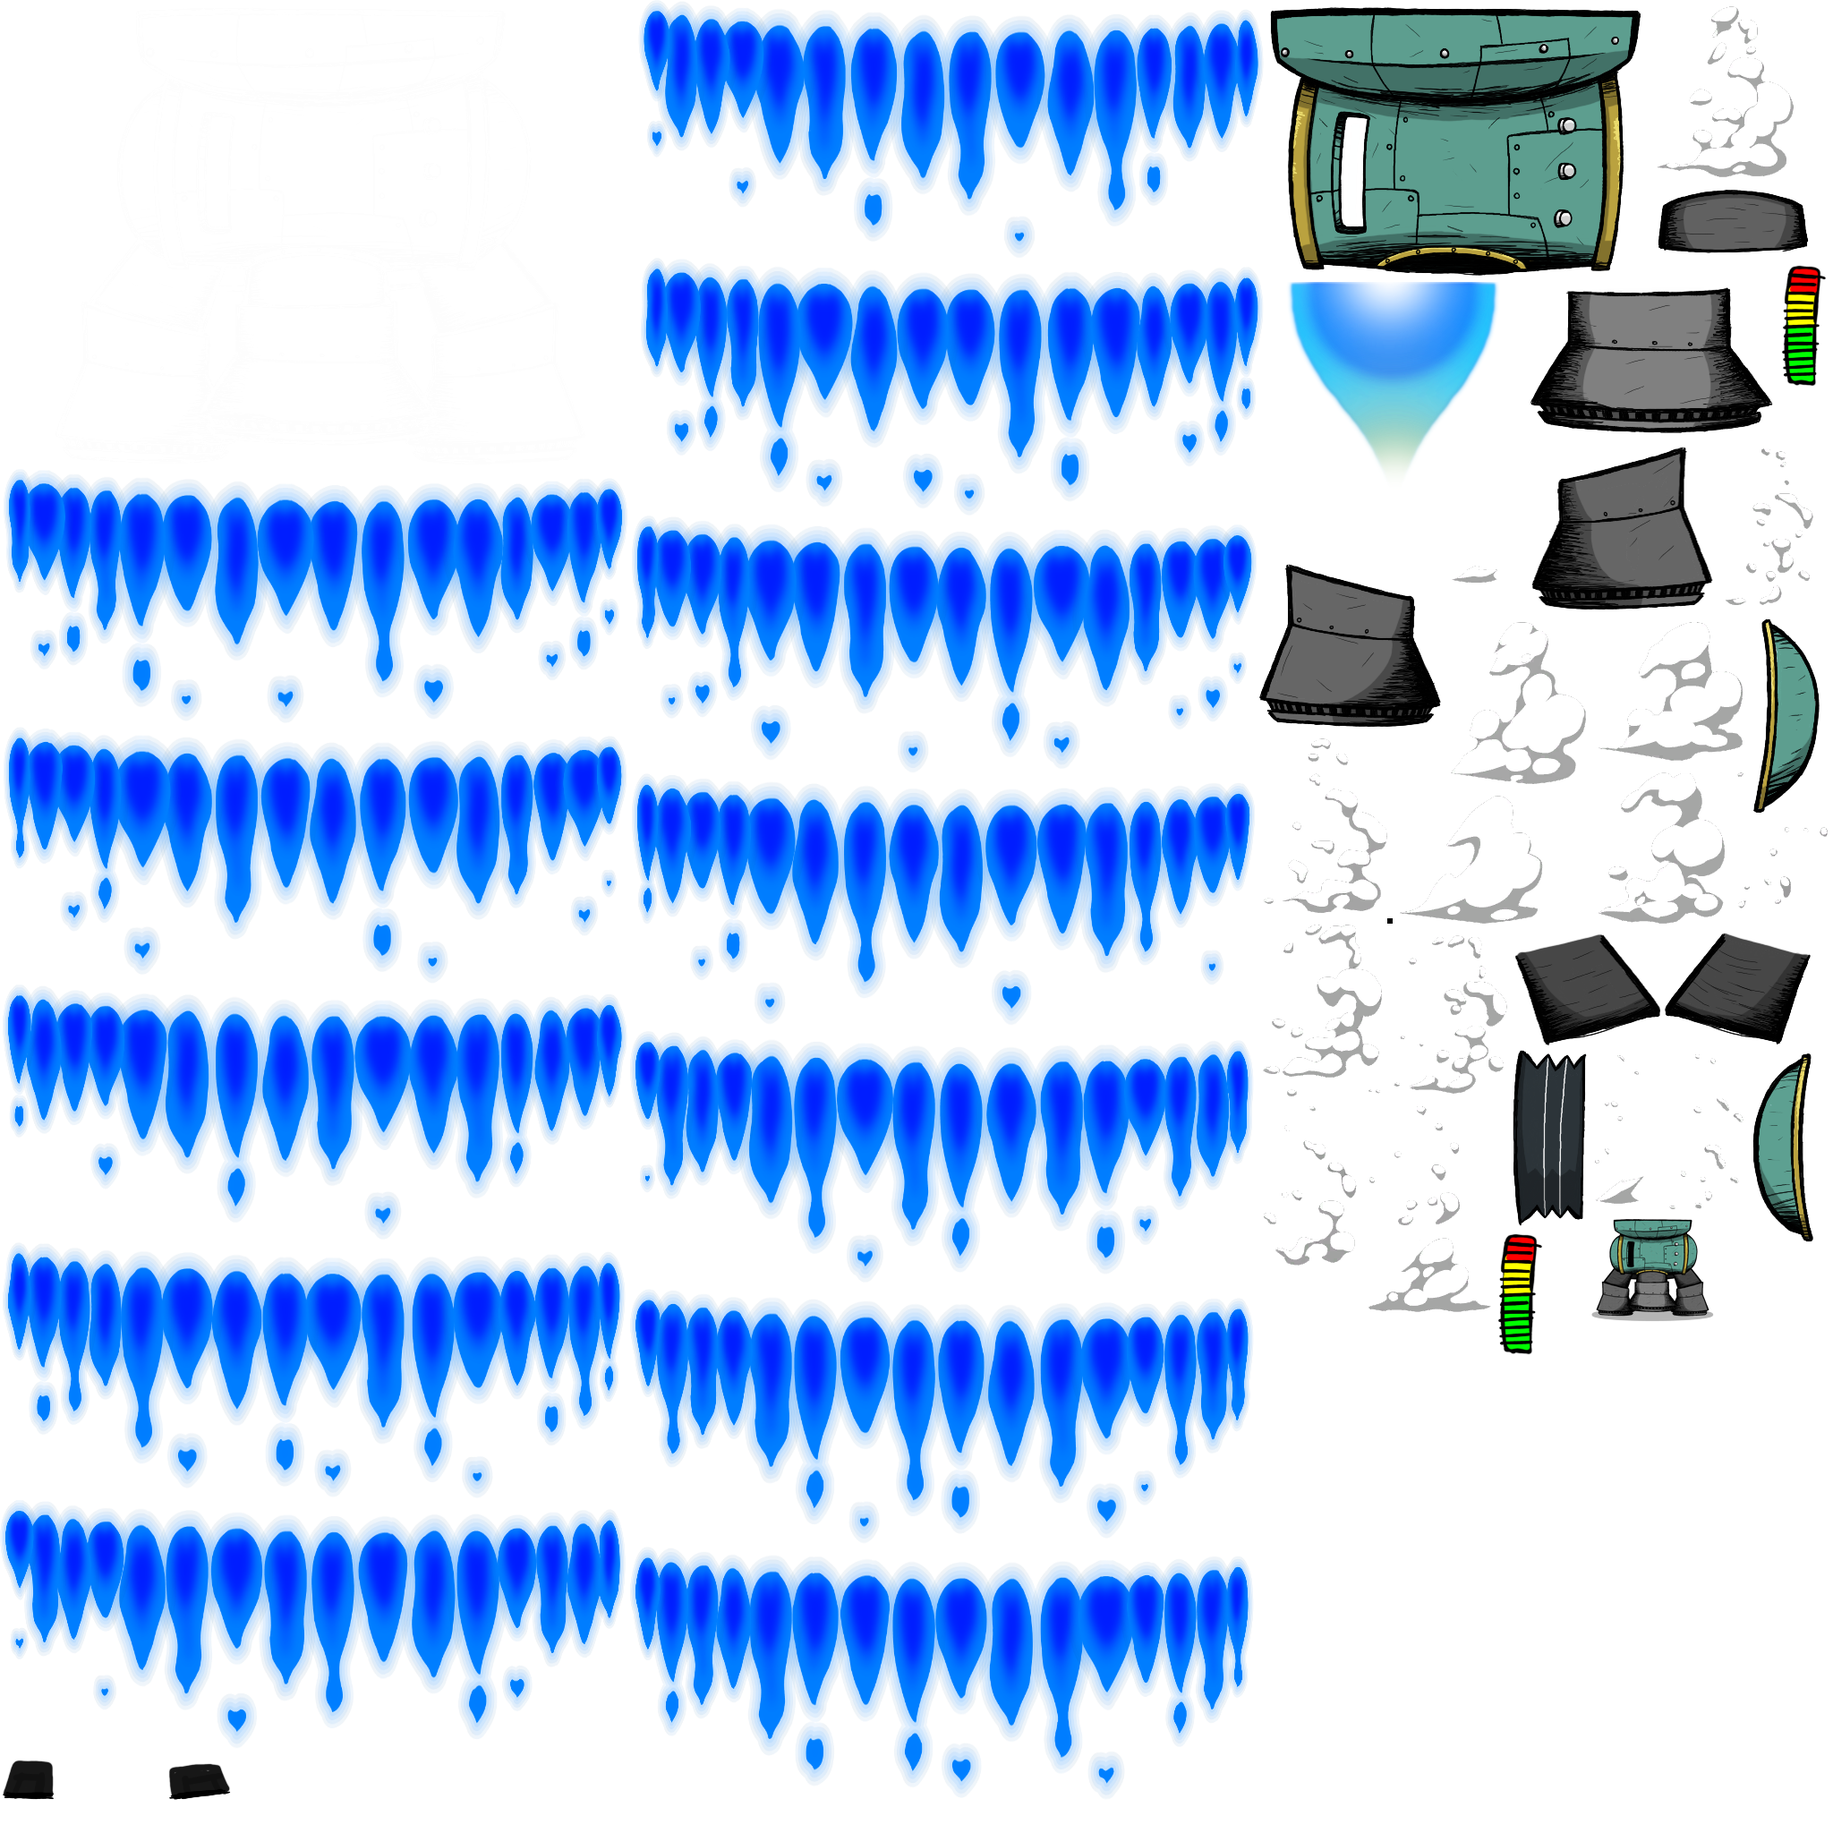
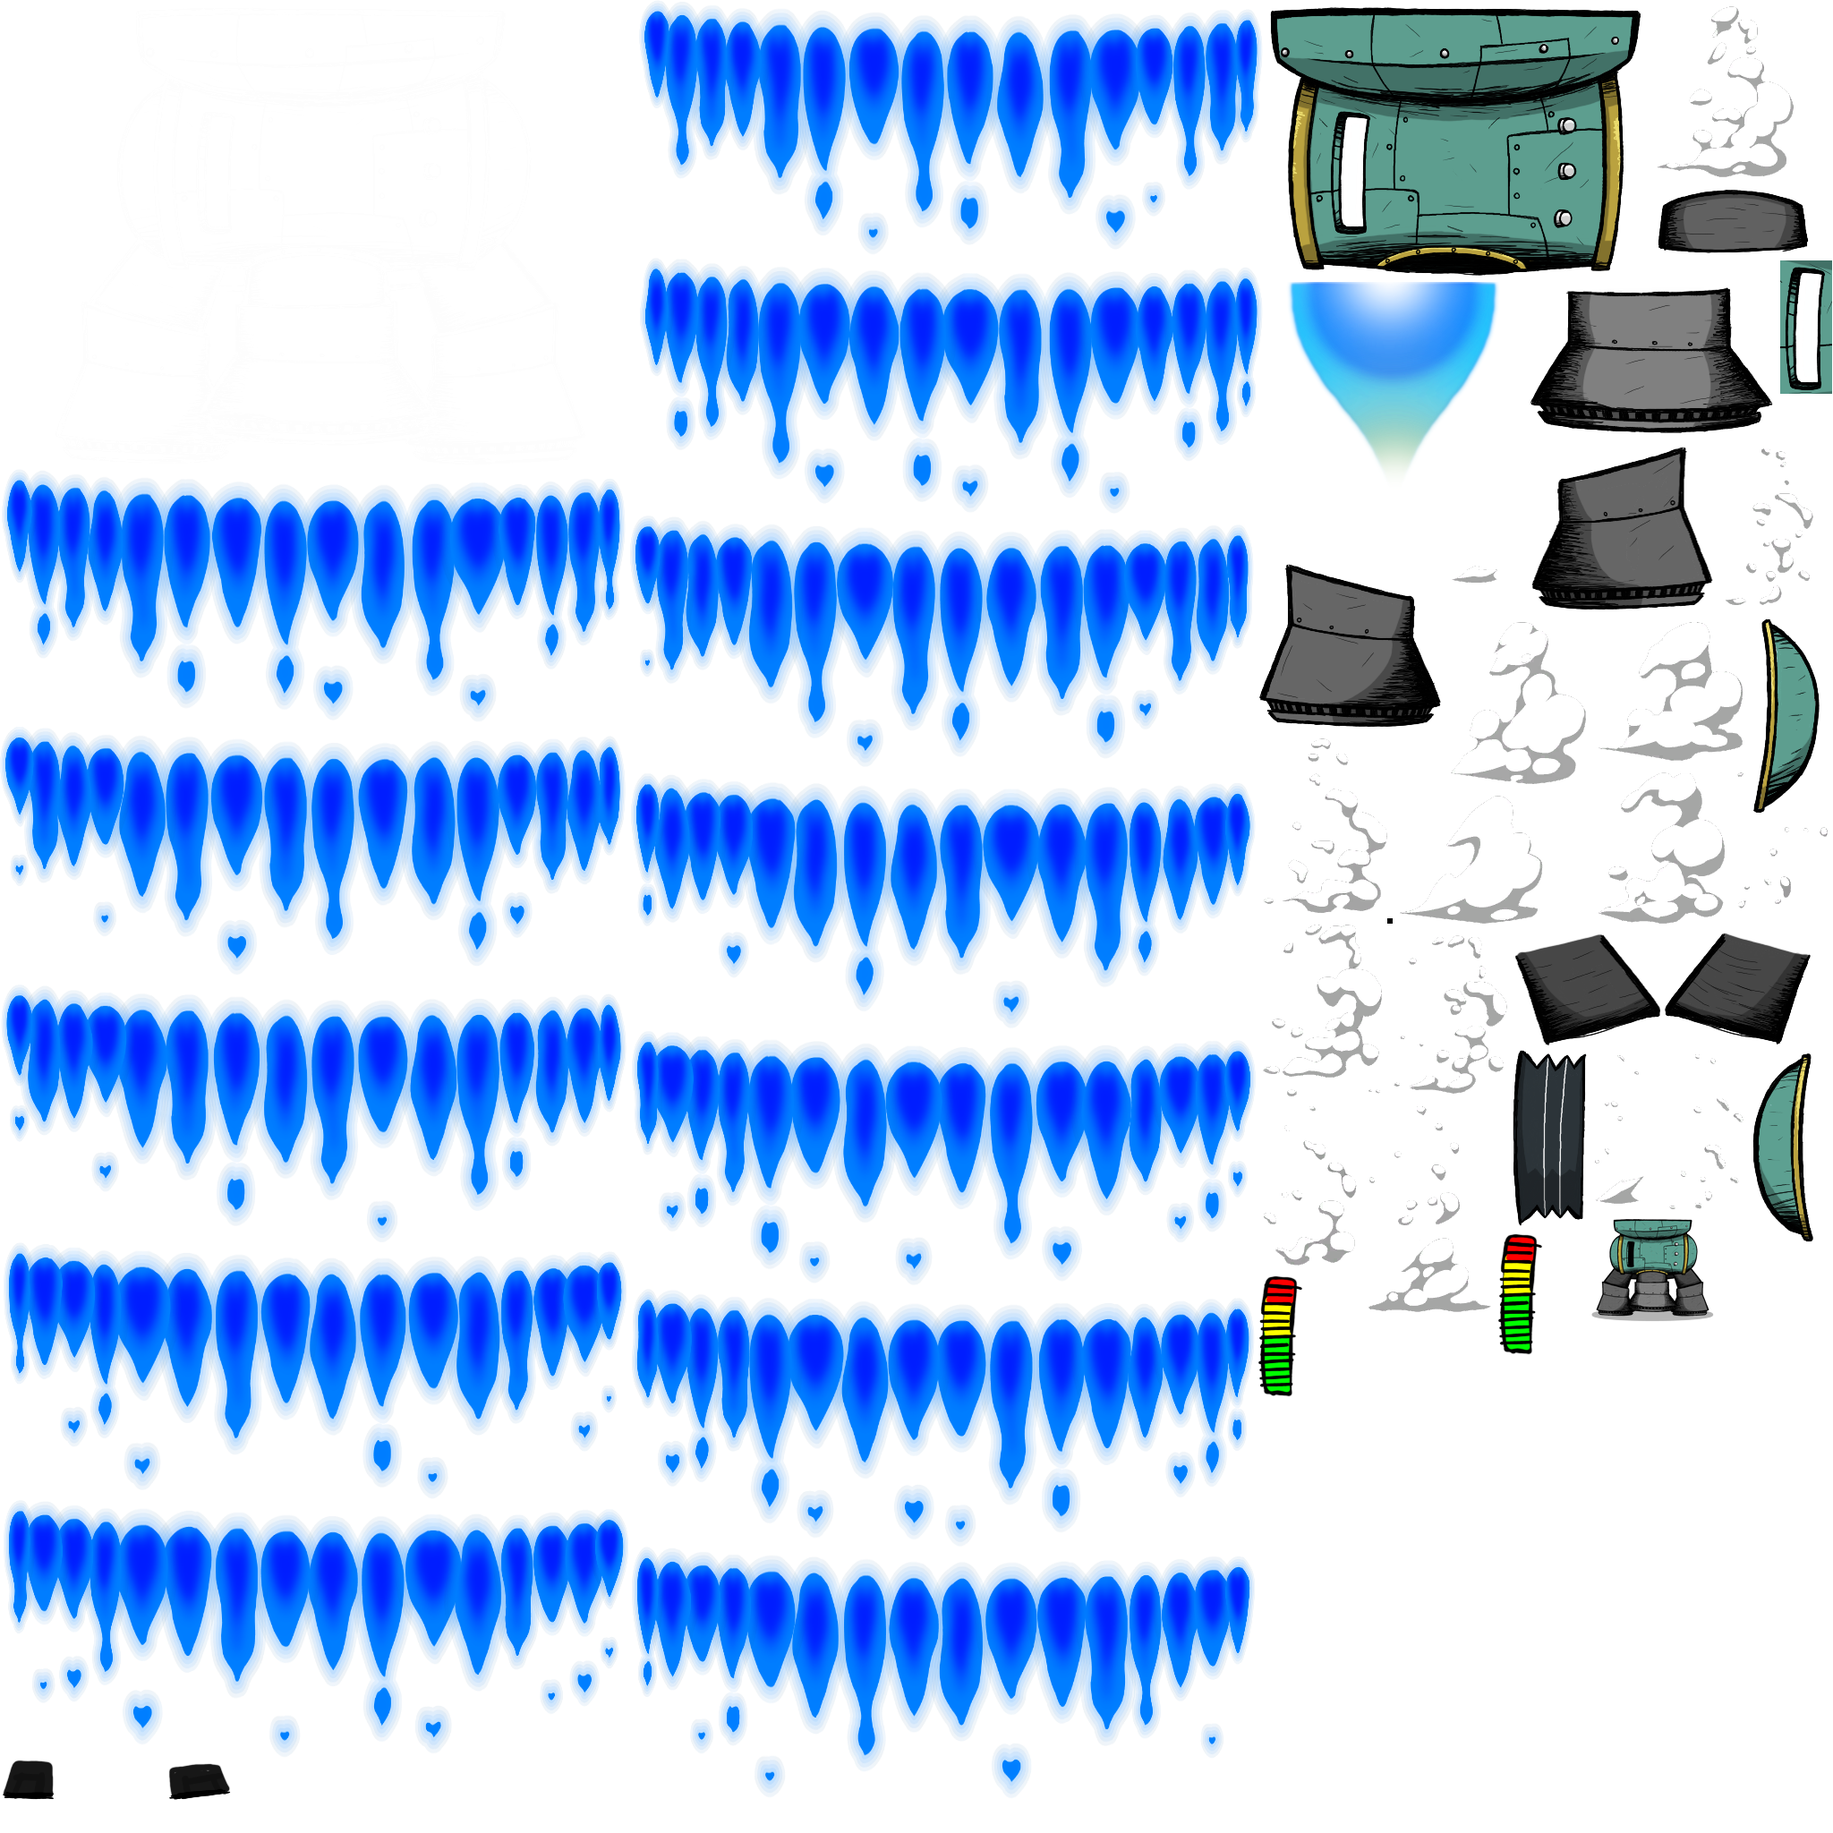
sidescreen stuff

Changed region(s): [[0.0, 0.0, 0.7188, 1.0], [0.9688, 0.125, 1.0, 0.2188], [0.3125, 0.5312, 0.3438, 0.5625]]

diff --git a/Rockets-TinyYetBig/SpaceStations/SpaceStationBuilderModuleSideScreen.cs b/Rockets-TinyYetBig/SpaceStations/SpaceStationBuilderModuleSideScreen.cs
@@ -1,0 +1,120 @@
+using System;
+using System.Collections.Generic;
+using System.Linq;
+using System.Text;
+using System.Threading.Tasks;
+using static STRINGS.CREATURES.STATS;
+using UnityEngine;
+using UtilLibs;
+
+namespace Rockets_TinyYetBig.SpaceStations
+{
+    internal class SpaceStationBuilderModuleSideScreen : SideScreenContent
+    {
+        [SerializeField]
+        private RectTransform buttonContainer;
+
+        private GameObject stateButtonPrefab;
+        private GameObject debugVictoryButton;
+        private GameObject flipButton;
+        private readonly List<GameObject> buttons = new List<GameObject>();
+
+        private Clustercraft targetCraft;
+
+        public override bool IsValidForTarget(GameObject target) => target.GetComponent<Clustercraft>() != null && this.HasConstructor(target.GetComponent<Clustercraft>());
+        private bool HasConstructor(Clustercraft craft)
+        {
+            foreach (Ref<RocketModuleCluster> clusterModule in craft.GetComponent<CraftModuleInterface>().ClusterModules)
+            {
+                if (clusterModule.Get().GetComponent<SpaceStationBuilder>() != null)
+                    return true;
+            }
+            return false;
+        }
+        protected override void OnSpawn()
+        {
+            base.OnSpawn();
+
+            // the monument screen used here has 2 extra buttons that are not needed, disabling them
+            //flipButton.SetActive(false);
+            //debugVictoryButton.SetActive(false);
+        }
+
+        protected override void OnPrefabInit()
+        {
+            base.OnPrefabInit();
+            titleKey = "STRINGS.UI_MOD.UISIDESCREENS.SPACESTATIONBUILDERSIDESCREEN.TITLE";
+            stateButtonPrefab = transform.Find("ButtonPrefab").gameObject;
+            buttonContainer = transform.Find("Content/Scroll/Grid").GetComponent<RectTransform>();
+            debugVictoryButton = transform.Find("Butttons/Button").gameObject;
+            flipButton = transform.Find("Butttons/FlipButton").gameObject;
+        }
+
+        private List<int> refreshHandle = new List<int>();
+        public override void SetTarget(GameObject target)
+        {
+            if (target != null)
+            {
+                foreach (int id in this.refreshHandle)
+                    target.Unsubscribe(id);
+                refreshHandle.Clear();
+            }
+            base.SetTarget(target);
+
+            targetCraft = target.GetComponent<Clustercraft>();
+            //GetPrefabStrings();
+            //refreshHandle.Add(this.targetCraft.gameObject.Subscribe(1792516731, new System.Action<object>(this.RefreshAll)));
+            //BuildModules();
+        }
+
+
+
+        // Creates clickable card buttons for all the lamp types + a randomizer button
+            
+        private void GenerateStateButtons()
+        {
+            //ClearButtons();
+            //var animFile = SpaceStationInConstruction.GetComponent<KBatchedAnimController>().AnimFiles[0];
+
+            //// random button
+            //AddButton(animFile, "random_ui", STRINGS.BUILDINGS.PREFABS.DECORPACKA_MOODLAMP.VARIANT.RANDOM, () => target.SetRandom());
+
+            //foreach (var lamp in ModDb.lampVariants.resources)
+            //{
+            //    AddButton(animFile, lamp.Id + "_ui", lamp.Name, 
+            //        () =>
+            //        Debug.Log("Bt pressed")
+            //        //target.SetVariant(lamp.Id)
+            //        );
+            //}
+        }
+
+
+        private void AddButton(KAnimFile animFile, string animName, LocString tooltip, System.Action onClick)
+        {
+            var gameObject = Util.KInstantiateUI(stateButtonPrefab, buttonContainer.gameObject, true);
+
+            if (gameObject.TryGetComponent(out KButton button))
+            {
+                button.onClick += onClick;
+                button.fgImage.sprite = Def.GetUISpriteFromMultiObjectAnim(animFile, animName);
+            }
+
+            UIUtils.AddSimpleTooltipToObject(gameObject.transform, tooltip, true);
+            buttons.Add(gameObject);
+        }
+
+        private void ClearButtons()
+        {
+            foreach (var button in buttons)
+            {
+                Util.KDestroyGameObject(button);
+            }
+
+            buttons.Clear();
+
+            //flipButton.SetActive(false);
+            //debugVictoryButton.SetActive(false);
+        }
+    }
+}

diff --git a/Rockets-TinyYetBig/SpaceStations/SpaceStationBuilder.cs b/Rockets-TinyYetBig/SpaceStations/SpaceStationBuilder.cs
@@ -7,7 +7,7 @@ using UnityEngine;
 
 namespace Rockets_TinyYetBig.SpaceStations
 {
-    class SpaceStationConstructor : KMonoBehaviour, ISidescreenButtonControl
+    class SpaceStationBuilder : KMonoBehaviour, ISidescreenButtonControl
     {
         public string SidescreenButtonText => "Make Station";
 
@@ -17,9 +17,9 @@ namespace Rockets_TinyYetBig.SpaceStations
         {
             Vector3 position = new Vector3(-1f, -1f, 0.0f);
             GameObject sat = Util.KInstantiate(Assets.GetPrefab((Tag)prefab), position);
-            var spaceStation = sat.GetComponent<SpaceStation>();
-            sat.GetComponent<SpaceStation>().Location = location;
             sat.SetActive(true);
+            var spaceStation = sat.GetComponent<SpaceStation>();
+            spaceStation.Location = location;
         }
 
         public int ButtonSideScreenSortOrder()
@@ -31,9 +31,21 @@ namespace Rockets_TinyYetBig.SpaceStations
         {
 
             Clustercraft component = this.GetComponent<RocketModuleCluster>().CraftInterface.GetComponent<Clustercraft>();
-            var location = component.Location;
-            location.q += 2;
-            SpawnStation(location, SmallOrbitalSpaceStationConfig.ID);
+            var locationToCheck = component.Location;
+            //location.q += 2;
+
+            int worldId = SpaceStationManager.GetSpaceStationWorldIdAtLocation(locationToCheck);
+            if (worldId!=-1)
+            {
+                ///other transfering items ?...
+                SpaceStationManager.Instance.DestroySpaceStationInteriorWorld(worldId);
+            }
+            else
+            {
+                ///Add Ressource Check
+                SpawnStation(locationToCheck, SmallOrbitalSpaceStationConfig.ID);
+            }
+
         }
 
         public bool SidescreenButtonInteractable()

diff --git a/Rockets-TinyYetBig/SpaceStations/AllowBuildingsInsideSpaceStationsPatches.cs b/Rockets-TinyYetBig/SpaceStations/AllowBuildingsInsideSpaceStationsPatches.cs
@@ -1,0 +1,45 @@
+using HarmonyLib;
+using System;
+using System.Collections.Generic;
+using System.Linq;
+using System.Text;
+using System.Threading.Tasks;
+using UnityEngine;
+using static STRINGS.BUILDINGS.PREFABS;
+
+namespace Rockets_TinyYetBig.SpaceStations
+{
+    internal class AllowBuildingsInsideSpaceStationsPatches
+    {
+        [HarmonyPatch(typeof(BaseModularLaunchpadPortConfig), "ConfigureBuildingTemplate")]
+        public static class AllowPortLoadersInSpaceStation
+        {
+            public static void Postfix(GameObject go)
+            {
+                KPrefabID component = go.GetComponent<KPrefabID>();
+                component.AddTag(ModAssets.Tags.SpaceStationOnlyInteriorBuilding);
+            }
+        }
+
+        [HarmonyPatch(typeof(ExobaseHeadquartersConfig), "ConfigureBuildingTemplate")]
+        public static class AllowSmallPrintingPodInSpaceStation
+        {
+            public static void Postfix(GameObject go)
+            {
+                KPrefabID component = go.GetComponent<KPrefabID>();
+                component.AddTag(ModAssets.Tags.SpaceStationOnlyInteriorBuilding);
+            }
+        }
+
+
+        [HarmonyPatch(typeof(ClusterUtil), "ActiveWorldHasPrinter")]
+        public static class CLusterUtil_AllowTelepads
+        {
+            public static bool Prefix(ref bool __result)
+            {
+                __result = SpaceStationManager.ActiveWorldIsRocketInterior() || Components.Telepads.GetWorldItems(ClusterManager.Instance.activeWorldId).Count > 0;
+                return false;
+            }
+        }
+    }
+}

diff --git a/Rockets-TinyYetBig/SpaceStations/SpaceStationPatches.cs b/Rockets-TinyYetBig/SpaceStations/SpaceStationPatches.cs
@@ -8,6 +8,7 @@ using System.Text;
 using System.Threading.Tasks;
 using TemplateClasses;
 using UnityEngine;
+using UtilLibs;
 
 namespace Rockets_TinyYetBig.SpaceStations
 {
@@ -42,18 +43,22 @@ namespace Rockets_TinyYetBig.SpaceStations
             }
         }
 
-
-        [HarmonyPatch(typeof(BaseModularLaunchpadPortConfig), "ConfigureBuildingTemplate")]
-        public static class AllowPortLoadersInSpaceStation
+        /// <summary>
+        /// Adding custom sidescreen
+        /// </summary>
+        [HarmonyPatch(typeof(DetailsScreen), "OnPrefabInit")]
+        public static class CustomSideScreenPatch_SatelliteCarrier
         {
-            public static void Postfix(GameObject go)
+            public static void Postfix(List<DetailsScreen.SideScreenRef> ___sideScreens)
             {
-                KPrefabID component = go.GetComponent<KPrefabID>();
-                component.AddTag(ModAssets.Tags.SpaceStationOnlyInteriorBuilding);
+                UIUtils.AddClonedSideScreen<SpaceStationBuilderModuleSideScreen>("SpaceStationBuilderModuleSideScreen", "MonumentSideScreen", typeof(MonumentSideScreen));
             }
         }
 
 
+        /// <summary>
+        /// Removing that method from space station interiors (to prevent crash)
+        /// </summary>
         [HarmonyPatch(typeof(ClusterManager), "UpdateWorldReverbSnapshot")]
         public static class DisableAudioReverbGetter
         {

diff --git a/Rockets-TinyYetBig/SpaceStations/SpaceStationManager.cs b/Rockets-TinyYetBig/SpaceStations/SpaceStationManager.cs
@@ -123,6 +123,21 @@ namespace Rockets_TinyYetBig.SpaceStations
             UnityEngine.Object.Destroy((UnityEngine.Object)world);
         }
 
+
+        public static bool IsSpaceStationAt(AxialI location) => GetSpaceStationWorldIdAtLocation(location) != -1;
+
+        public static bool ValidSpaceStationConstructionLocation(AxialI location)
+        {
+            foreach (ClusterGridEntity clusterGridEntity in ClusterGrid.Instance.cellContents[location])
+            {
+                if (clusterGridEntity.Layer == EntityLayer.Asteroid || clusterGridEntity.Layer == EntityLayer.POI && !(clusterGridEntity is ResearchDestination))
+                {
+                    return false;
+                }
+            }
+            return true;
+        }
+
         public static int GetSpaceStationWorldIdAtLocation(AxialI location)
         {
             foreach (ClusterGridEntity clusterGridEntity in ClusterGrid.Instance.cellContents[location])

diff --git a/Rockets-TinyYetBig/SpaceStations/ExcludePortsFromSpaceStationPatches.cs b/Rockets-TinyYetBig/SpaceStations/ExcludePortsFromSpaceStationPatches.cs
@@ -10,6 +10,16 @@ namespace Rockets_TinyYetBig.SpaceStations
 {
     internal class ExcludePortsFromSpaceStationPatches
     {
+        [HarmonyPatch(typeof(RocketControlStationConfig), "ConfigureBuildingTemplate")]
+        public static class RmRocketControlStationFromSpaceStation
+        {
+            public static void Postfix(GameObject go)
+            {
+                KPrefabID component = go.GetComponent<KPrefabID>();
+                component.AddTag(ModAssets.Tags.RocketInteriorOnlyBuilding);
+            }
+        }
+
         [HarmonyPatch(typeof(RocketInteriorGasInputConfig), "ConfigureBuildingTemplate")]
         public static class RmGasInputFromSpaceStation
         {

diff --git a/Rockets-TinyYetBig/STRINGS.cs b/Rockets-TinyYetBig/STRINGS.cs
@@ -164,6 +164,20 @@ namespace Rockets_TinyYetBig
 
         public class UI_MOD
         {
+
+            public class UISIDESCREENS
+            {
+                public class SPACESTATIONBUILDERSIDESCREEN
+                {
+                    public static LocString TITLE = (LocString)"Space Station Management";
+
+                }
+                public class DOCKINGSIDESCREEN
+                {
+                    public static LocString TITLE = (LocString)"Docking Management";
+
+                }
+            }
             public class DOCKINGUI
             {
                 public static LocString BUTTON = (LocString)"View connected Target";

diff --git a/Rockets-TinyYetBig/SpaceStations/SpaceStationBuilderModuleConfig.cs b/Rockets-TinyYetBig/SpaceStations/SpaceStationBuilderModuleConfig.cs
@@ -63,7 +63,7 @@ namespace Rockets_TinyYetBig.SpaceStations
         public override void DoPostConfigureComplete(GameObject go)
         {
             BuildingTemplates.ExtendBuildingToRocketModuleCluster(go, (string)null, ROCKETRY.BURDEN.MONUMENTAL);
-            go.AddOrGet<SpaceStationConstructor>();
+            go.AddOrGet<SpaceStationBuilder>();
             go.GetComponent<ReorderableBuilding>().buildConditions.Add((SelectModuleCondition)new OneModulePerRocket(ID));
         }
 

diff --git a/Rockets-TinyYetBig/ModAssets.cs b/Rockets-TinyYetBig/ModAssets.cs
@@ -20,6 +20,8 @@ namespace Rockets_TinyYetBig
         }
 
 
+
+
         public static Components.Cmps<DockingManager> Dockables = new Components.Cmps<DockingManager>();
         
         public static Dictionary<Tuple<BuildingDef, int>, GameObject> CategorizedButtons = new Dictionary<Tuple<BuildingDef, int>, GameObject>();

diff --git a/Rockets-TinyYetBig/Docking/DockingSidescreen.cs b/Rockets-TinyYetBig/Docking/DockingSidescreen.cs
@@ -104,6 +104,7 @@ namespace Rockets_TinyYetBig.Docking
         protected override void OnPrefabInit()
         {
             base.OnPrefabInit();
+            titleKey = "STRINGS.UI_MOD.UISIDESCREENS.DOCKINGSIDESCREEN.TITLE";
         }
 
         void ConnectReference()
